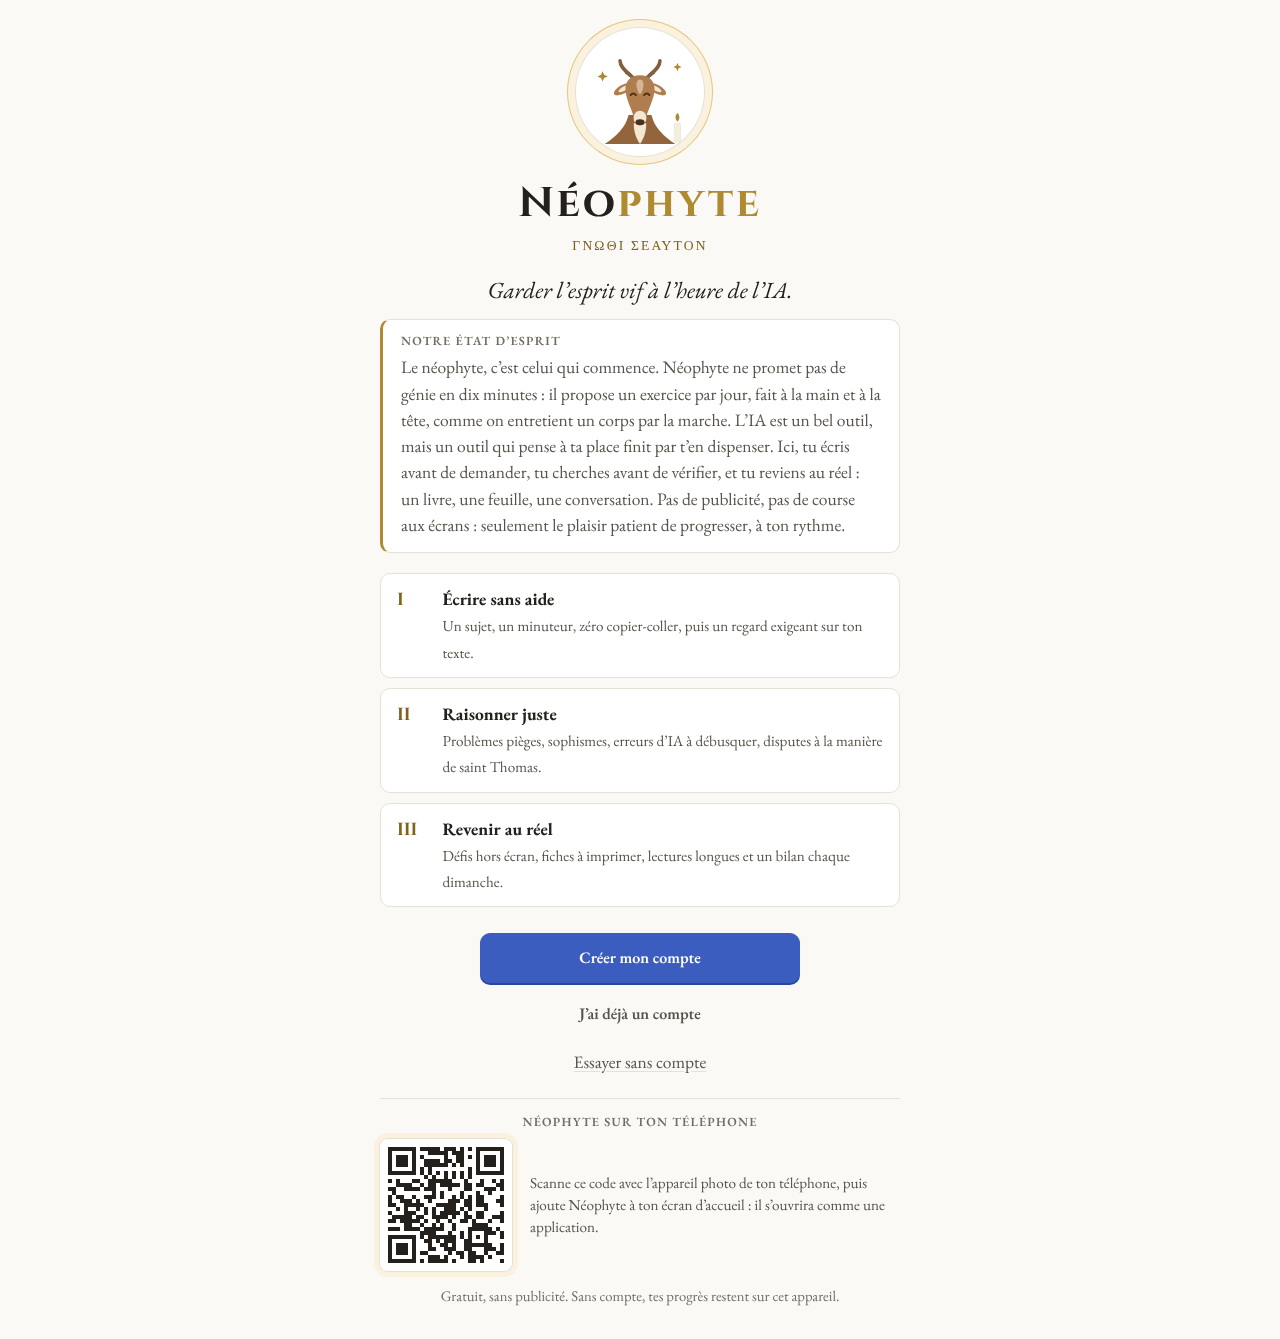
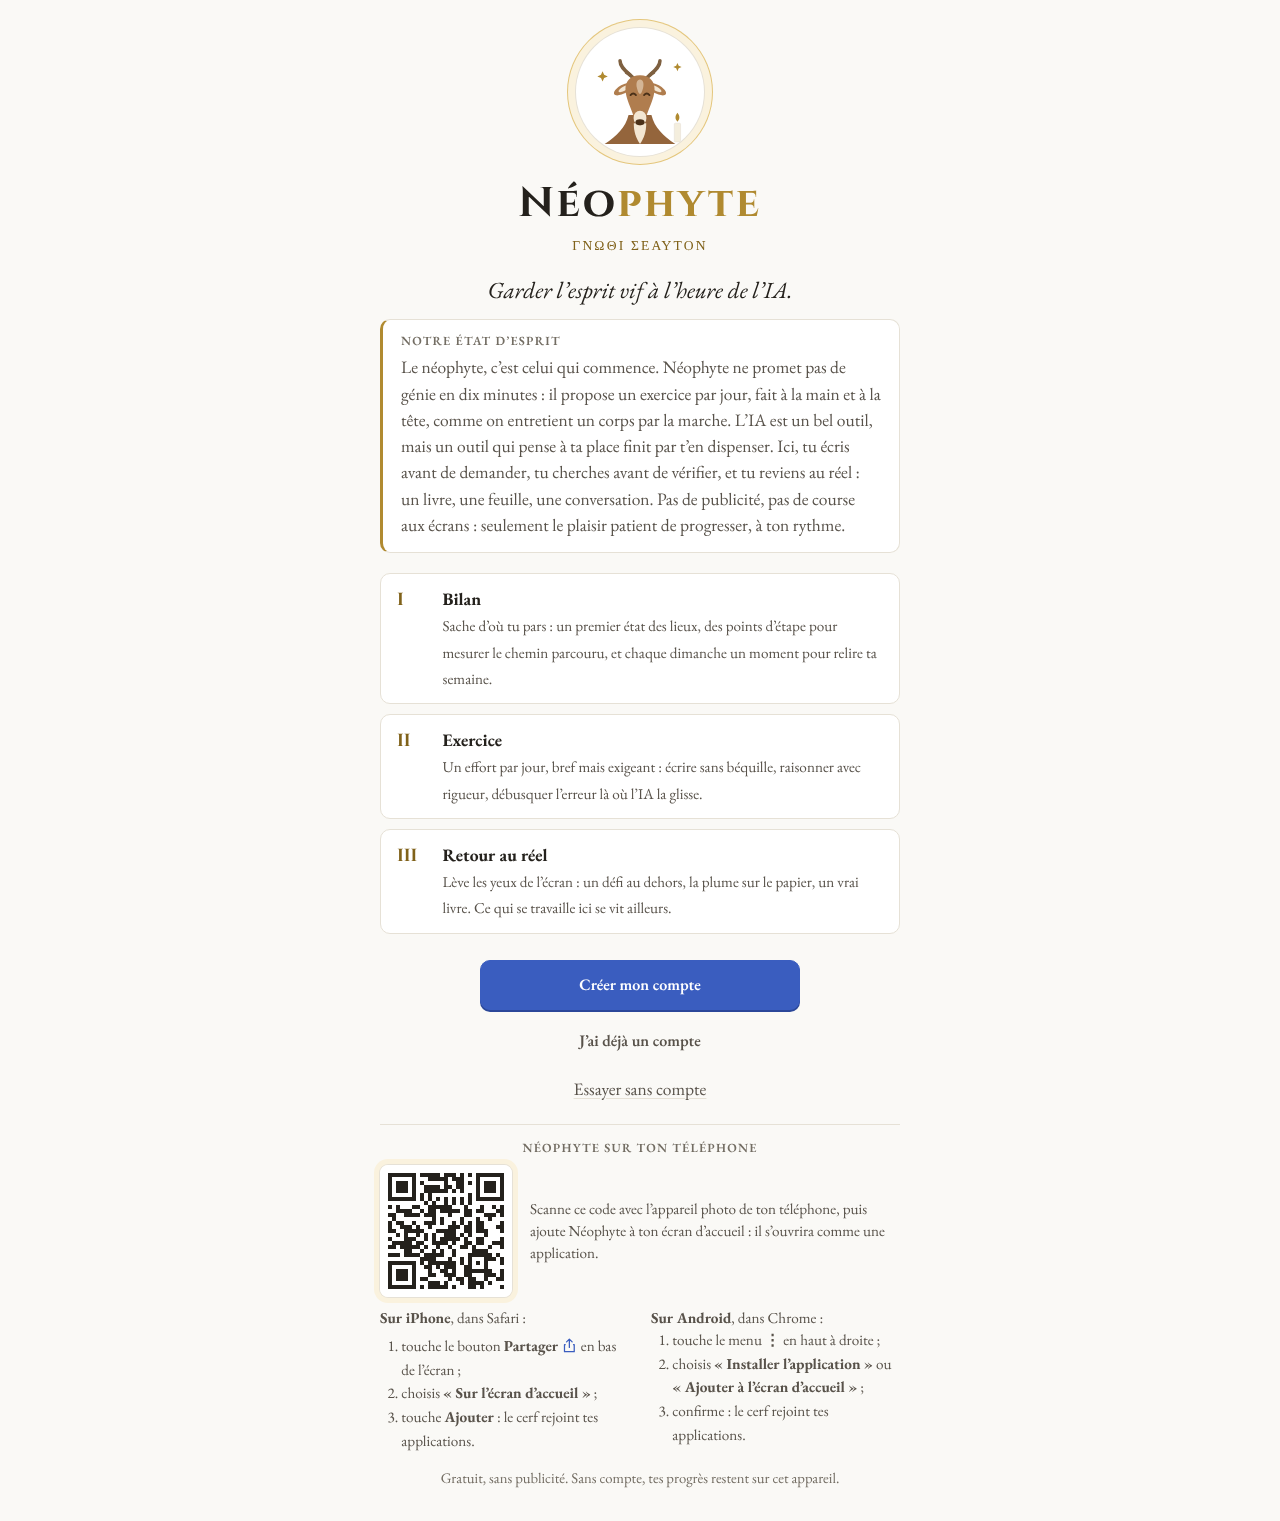
Accueil : marche à suivre Android à côté de l'iPhone
Claude-Session: https://claude.ai/code/session_01LZgnshbRNnxW2nDu48CvLA

Changed region(s): [[0.3125, 0.0, 0.6875, 0.7655], [0.2812, 0.7655, 0.6875, 0.9798]]

diff --git a/public/index.html b/public/index.html
@@ -773,6 +773,7 @@ html.boot .view{visibility:hidden}
 .wl-qr p,.wl-steps p{margin:0;color:var(--fg2);font-size:.95rem;line-height:1.45}
 .wl-steps{text-align:left;width:100%;display:flex;flex-direction:column;gap:6px;align-items:flex-start}
 .wl-steps ol{margin:0;padding-left:1.4em;color:var(--fg2);font-size:.95rem;line-height:1.55}
+.wl-os{display:grid;grid-template-columns:repeat(auto-fit,minmax(220px,1fr));gap:12px 22px;width:100%}
 .wl-ico{width:1.1em;height:1.1em;vertical-align:-.15em;color:var(--accent)}
 @media (max-width:640px){.wl-esprit{padding:12px 14px}.wl-esprit p{font-size:.95rem}}
 .exgrid{display:flex;flex-direction:column;gap:30px}
@@ -1414,13 +1415,18 @@ var fin=function(){if(e.parentNode)e.remove();};e.addEventListener('click',fin);
         <svg viewBox="0 0 33 33" role="img" aria-label="QR code vers yohandk.github.io/Brain-Fit" shape-rendering="crispEdges"><rect width="33" height="33" fill="#fff"/><path stroke="#24211C" d="M2 2.5h7m1 0h5m1 0h3m1 0h1m1 0h1m1 0h7M2 3.5h1m5 0h1m3 0h5m1 0h3m3 0h1m5 0h1M2 4.5h1m1 0h3m1 0h1m1 0h1m5 0h1m2 0h2m1 0h1m1 0h1m1 0h3m1 0h1M2 5.5h1m1 0h3m1 0h1m2 0h4m1 0h2m1 0h2m3 0h1m1 0h3m1 0h1M2 6.5h1m1 0h3m1 0h1m2 0h6m1 0h1m1 0h1m3 0h1m1 0h3m1 0h1M2 7.5h1m5 0h1m1 0h1m1 0h1m9 0h1m1 0h1m5 0h1M2 8.5h7m1 0h1m1 0h1m1 0h1m1 0h1m1 0h1m1 0h1m1 0h1m1 0h7M11 9.5h1m1 0h1m2 0h1m1 0h1m1 0h1m1 0h1M2 10.5h1m1 0h1m3 0h2m2 0h6m3 0h1m3 0h1m2 0h1m1 0h1M4 11.5h4m2 0h1m1 0h2m1 0h5m1 0h2m1 0h2m3 0h2M2 12.5h2m2 0h4m1 0h3m3 0h1m3 0h2m3 0h3m1 0h1M3 13.5h1m9 0h1m1 0h1m4 0h1m3 0h1m2 0h1M2 14.5h1m1 0h2m2 0h1m2 0h3m1 0h1m2 0h1m1 0h1m1 0h1m1 0h2m4 0h1M2 15.5h1m2 0h3m1 0h1m2 0h1m4 0h3m1 0h2m1 0h2m3 0h2M2 16.5h2m2 0h5m3 0h5m2 0h2m1 0h3m3 0h1M4 17.5h1m1 0h1m2 0h1m1 0h1m1 0h1m2 0h3m1 0h1m1 0h1m3 0h1M2 18.5h1m3 0h3m2 0h1m1 0h1m1 0h5m1 0h1m2 0h2m4 0h1M3 19.5h5m1 0h2m2 0h4m1 0h1m2 0h2m1 0h2m2 0h3M2 20.5h2m1 0h5m1 0h1m2 0h1m2 0h1m2 0h2m1 0h1m3 0h1m2 0h1M6 21.5h2m2 0h1m2 0h1m1 0h1m2 0h1m4 0h4M2 22.5h3m1 0h4m1 0h5m2 0h1m3 0h6m1 0h1M10 23.5h4m3 0h1m2 0h1m1 0h1m3 0h3m1 0h1M2 24.5h7m1 0h1m1 0h7m1 0h1m1 0h1m1 0h1m1 0h1m3 0h1M2 25.5h1m5 0h1m2 0h2m1 0h1m1 0h3m2 0h2m3 0h1M2 26.5h1m1 0h3m1 0h1m3 0h1m2 0h2m1 0h1m2 0h7m2 0h1M2 27.5h1m1 0h3m1 0h1m3 0h2m2 0h3m2 0h2m3 0h3m1 0h1M2 28.5h1m1 0h3m1 0h1m1 0h2m5 0h1m1 0h2m1 0h2m2 0h1m2 0h2M2 29.5h1m5 0h1m3 0h3m1 0h1m3 0h1m1 0h4m1 0h1M2 30.5h7m1 0h1m1 0h5m1 0h1m3 0h2m1 0h1m4 0h1"/></svg>
         <p>Scanne ce code avec l'appareil photo de ton téléphone, puis ajoute Néophyte à ton écran d'accueil : il s'ouvrira comme une application.</p>
       </div>
-      <div class="wl-steps" id="wl-ios" hidden>
-        <p><b>Sur iPhone</b>, dans Safari :</p>
-        <ol><li>touche le bouton <b>Partager</b> <svg class="wl-ico" viewBox="0 0 24 24" aria-hidden="true"><path d="M12 3v12M8 7l4-4 4 4M6 11H5v10h14V11h-1" fill="none" stroke="currentColor" stroke-width="1.8" stroke-linecap="round" stroke-linejoin="round"/></svg> en bas de l'écran ;</li><li>choisis <b>« Sur l'écran d'accueil »</b> ;</li><li>touche <b>Ajouter</b> : le cerf rejoint tes applications.</li></ol>
-      </div>
-      <div class="wl-steps" id="wl-android" hidden>
-        <button class="btn" id="wl-install-btn" hidden>Installer l'application</button>
-        <p id="wl-android-txt">Ouvre le menu <b>⋮</b> du navigateur, puis <b>« Installer l'application »</b> ou <b>« Ajouter à l'écran d'accueil »</b>.</p>
+      <div class="wl-os" id="wl-os">
+        <div class="wl-steps" id="wl-ios">
+          <p><b>Sur iPhone</b>, dans Safari :</p>
+          <ol><li>touche le bouton <b>Partager</b> <svg class="wl-ico" viewBox="0 0 24 24" aria-hidden="true"><path d="M12 3v12M8 7l4-4 4 4M6 11H5v10h14V11h-1" fill="none" stroke="currentColor" stroke-width="1.8" stroke-linecap="round" stroke-linejoin="round"/></svg> en bas de l'écran ;</li><li>choisis <b>« Sur l'écran d'accueil »</b> ;</li><li>touche <b>Ajouter</b> : le cerf rejoint tes applications.</li></ol>
+        </div>
+        <div class="wl-steps" id="wl-android">
+          <button class="btn" id="wl-install-btn" hidden>Installer l'application</button>
+          <div id="wl-android-txt">
+            <p><b>Sur Android</b>, dans Chrome :</p>
+            <ol><li>touche le menu <b>⋮</b> en haut à droite ;</li><li>choisis <b>« Installer l'application »</b> ou <b>« Ajouter à l'écran d'accueil »</b> ;</li><li>confirme : le cerf rejoint tes applications.</li></ol>
+          </div>
+        </div>
       </div>
     </section>
     <p class="note">Gratuit, sans publicité. Sans compte, tes progrès restent sur cet appareil.</p>
@@ -5518,7 +5524,8 @@ function setupInstall(){
   const ua=navigator.userAgent, ios=/iPhone|iPad|iPod/.test(ua)||(/Macintosh/.test(ua)&&navigator.maxTouchPoints>1),
     android=/Android/.test(ua), installed=matchMedia('(display-mode: standalone)').matches||navigator.standalone===true;
   $('#wl-install').hidden=installed;
-  $('#wl-qr').hidden=ios||android; $('#wl-ios').hidden=!ios; $('#wl-android').hidden=!android;
+  // sur ordinateur : QR code et les deux marches à suivre ; sur téléphone : seulement la sienne
+  $('#wl-qr').hidden=ios||android; $('#wl-ios').hidden=android; $('#wl-android').hidden=ios;
 }
 $('#wl-install-btn').addEventListener('click',async()=>{if(!installEvt)return;installEvt.prompt();try{await installEvt.userChoice;}catch(e){}installEvt=null;$('#wl-install-btn').hidden=true;});
 function showWelcome(){
